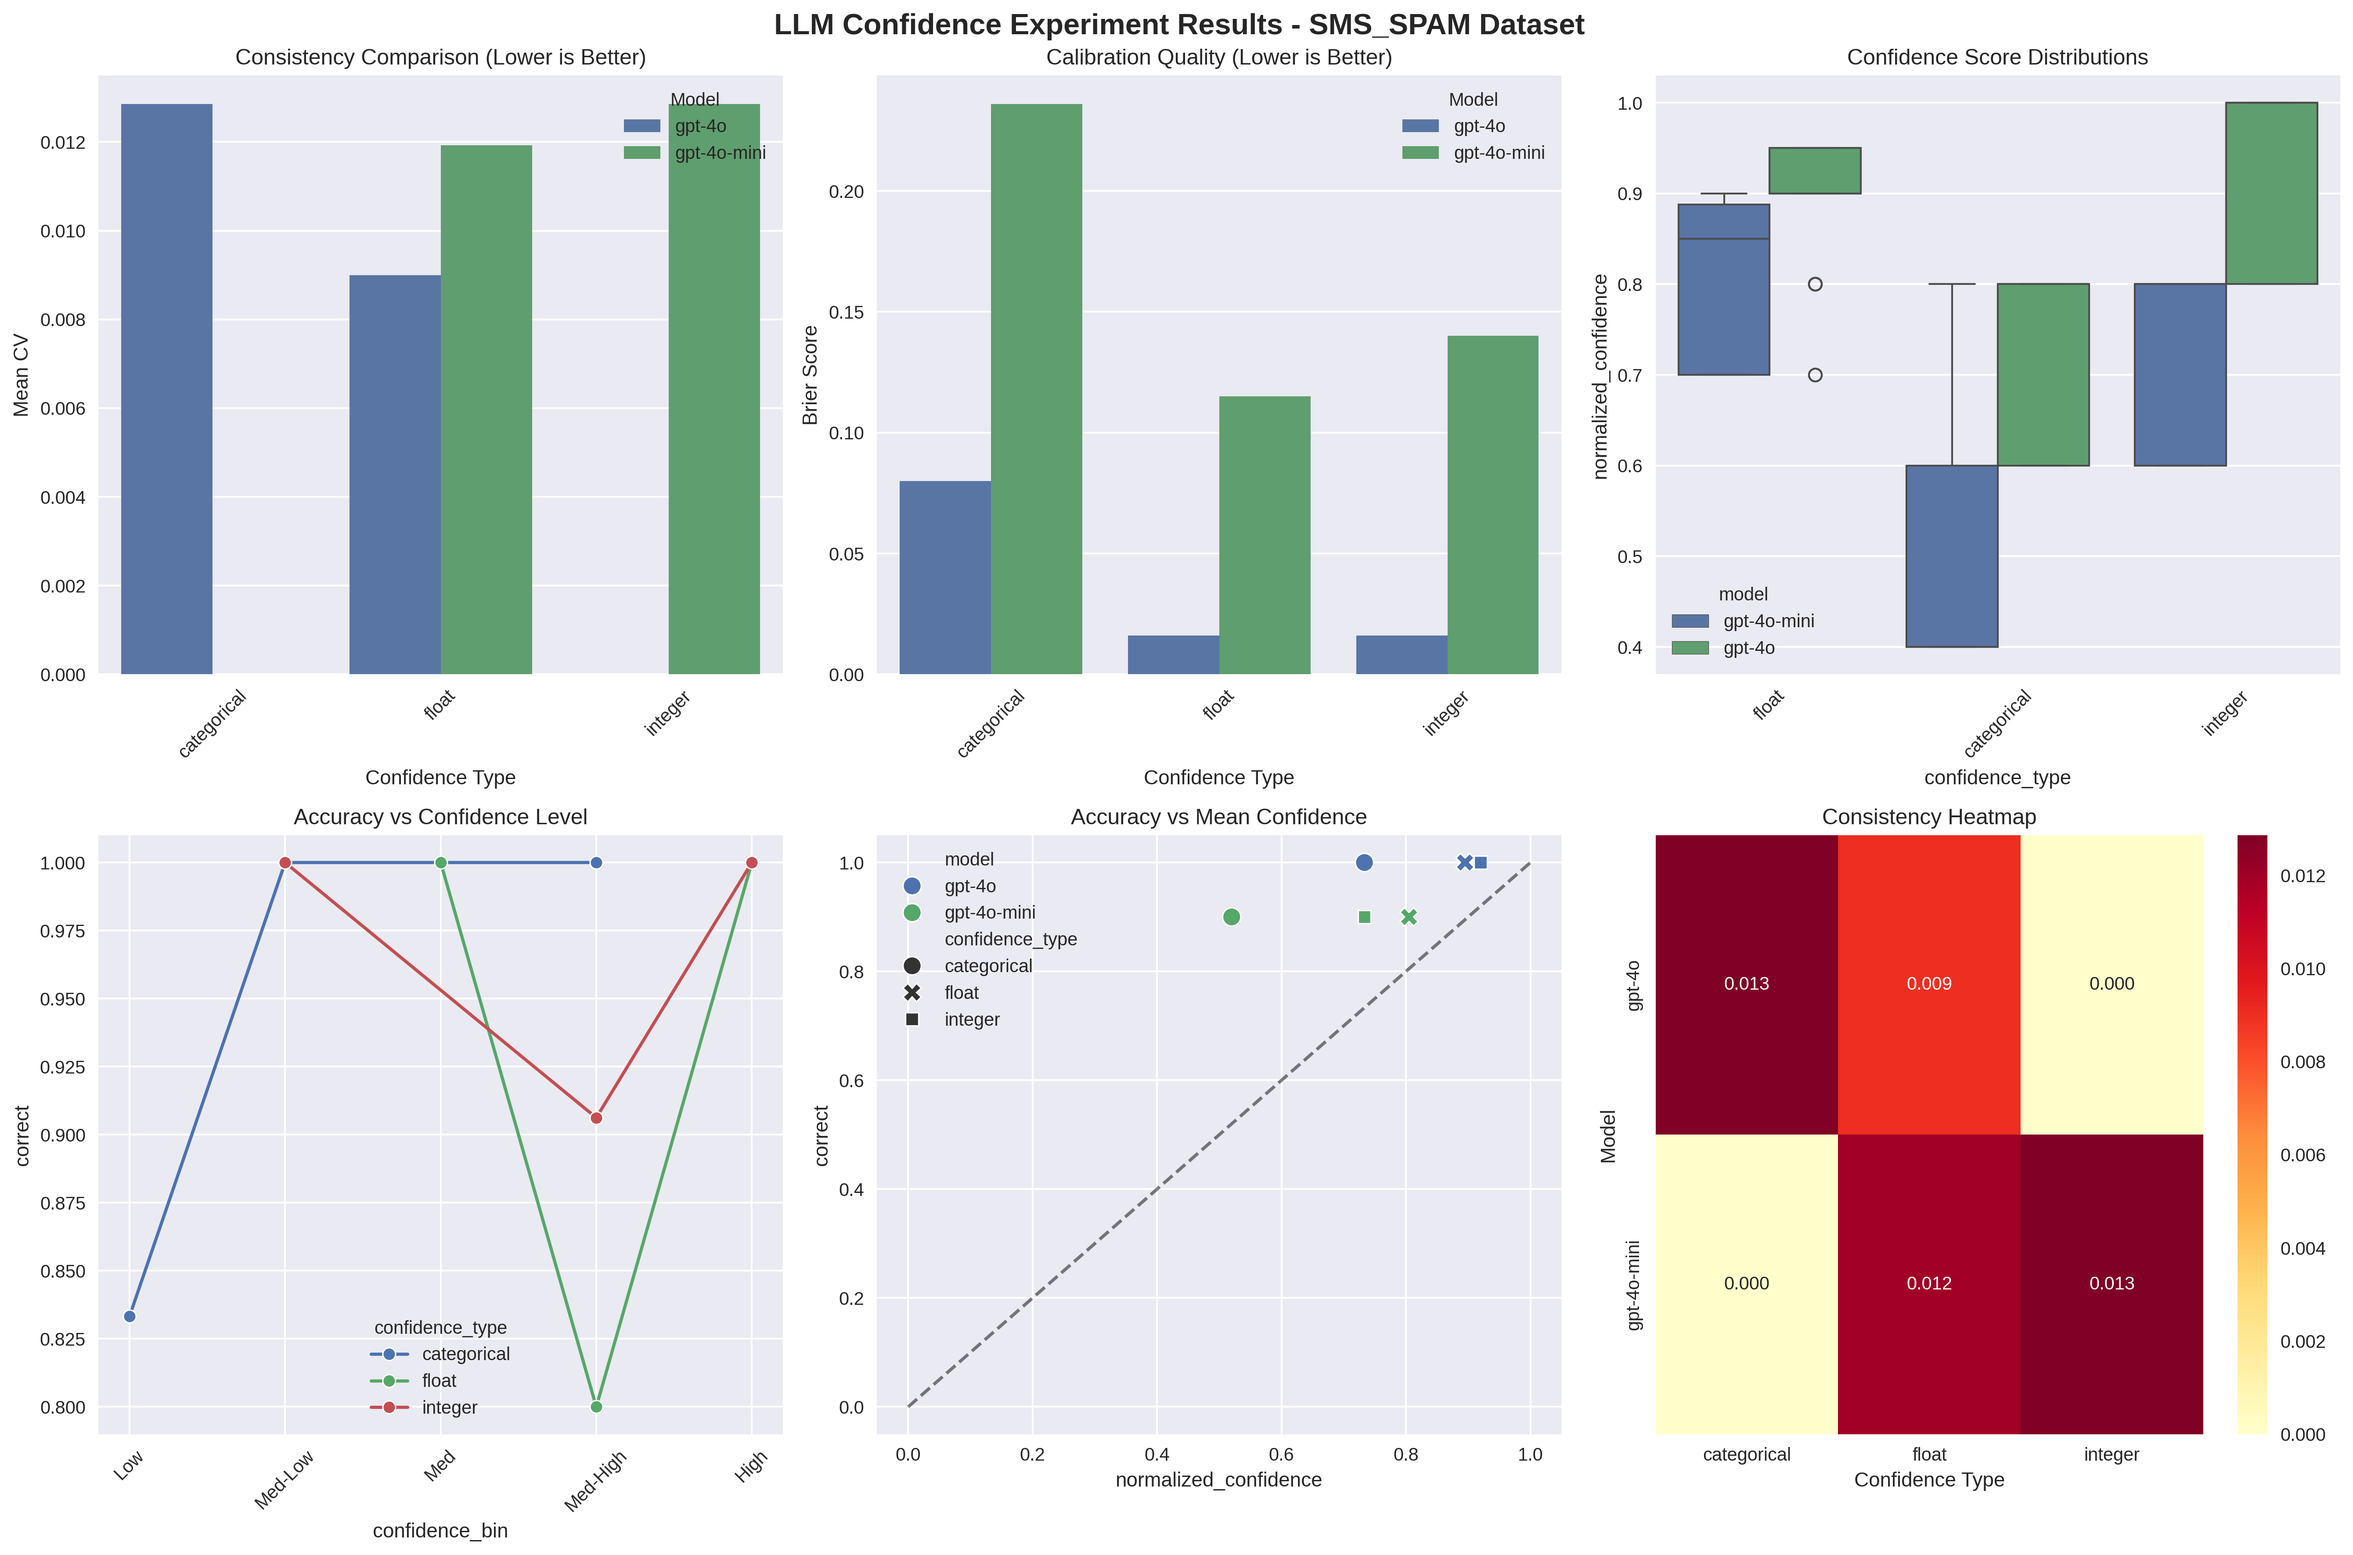
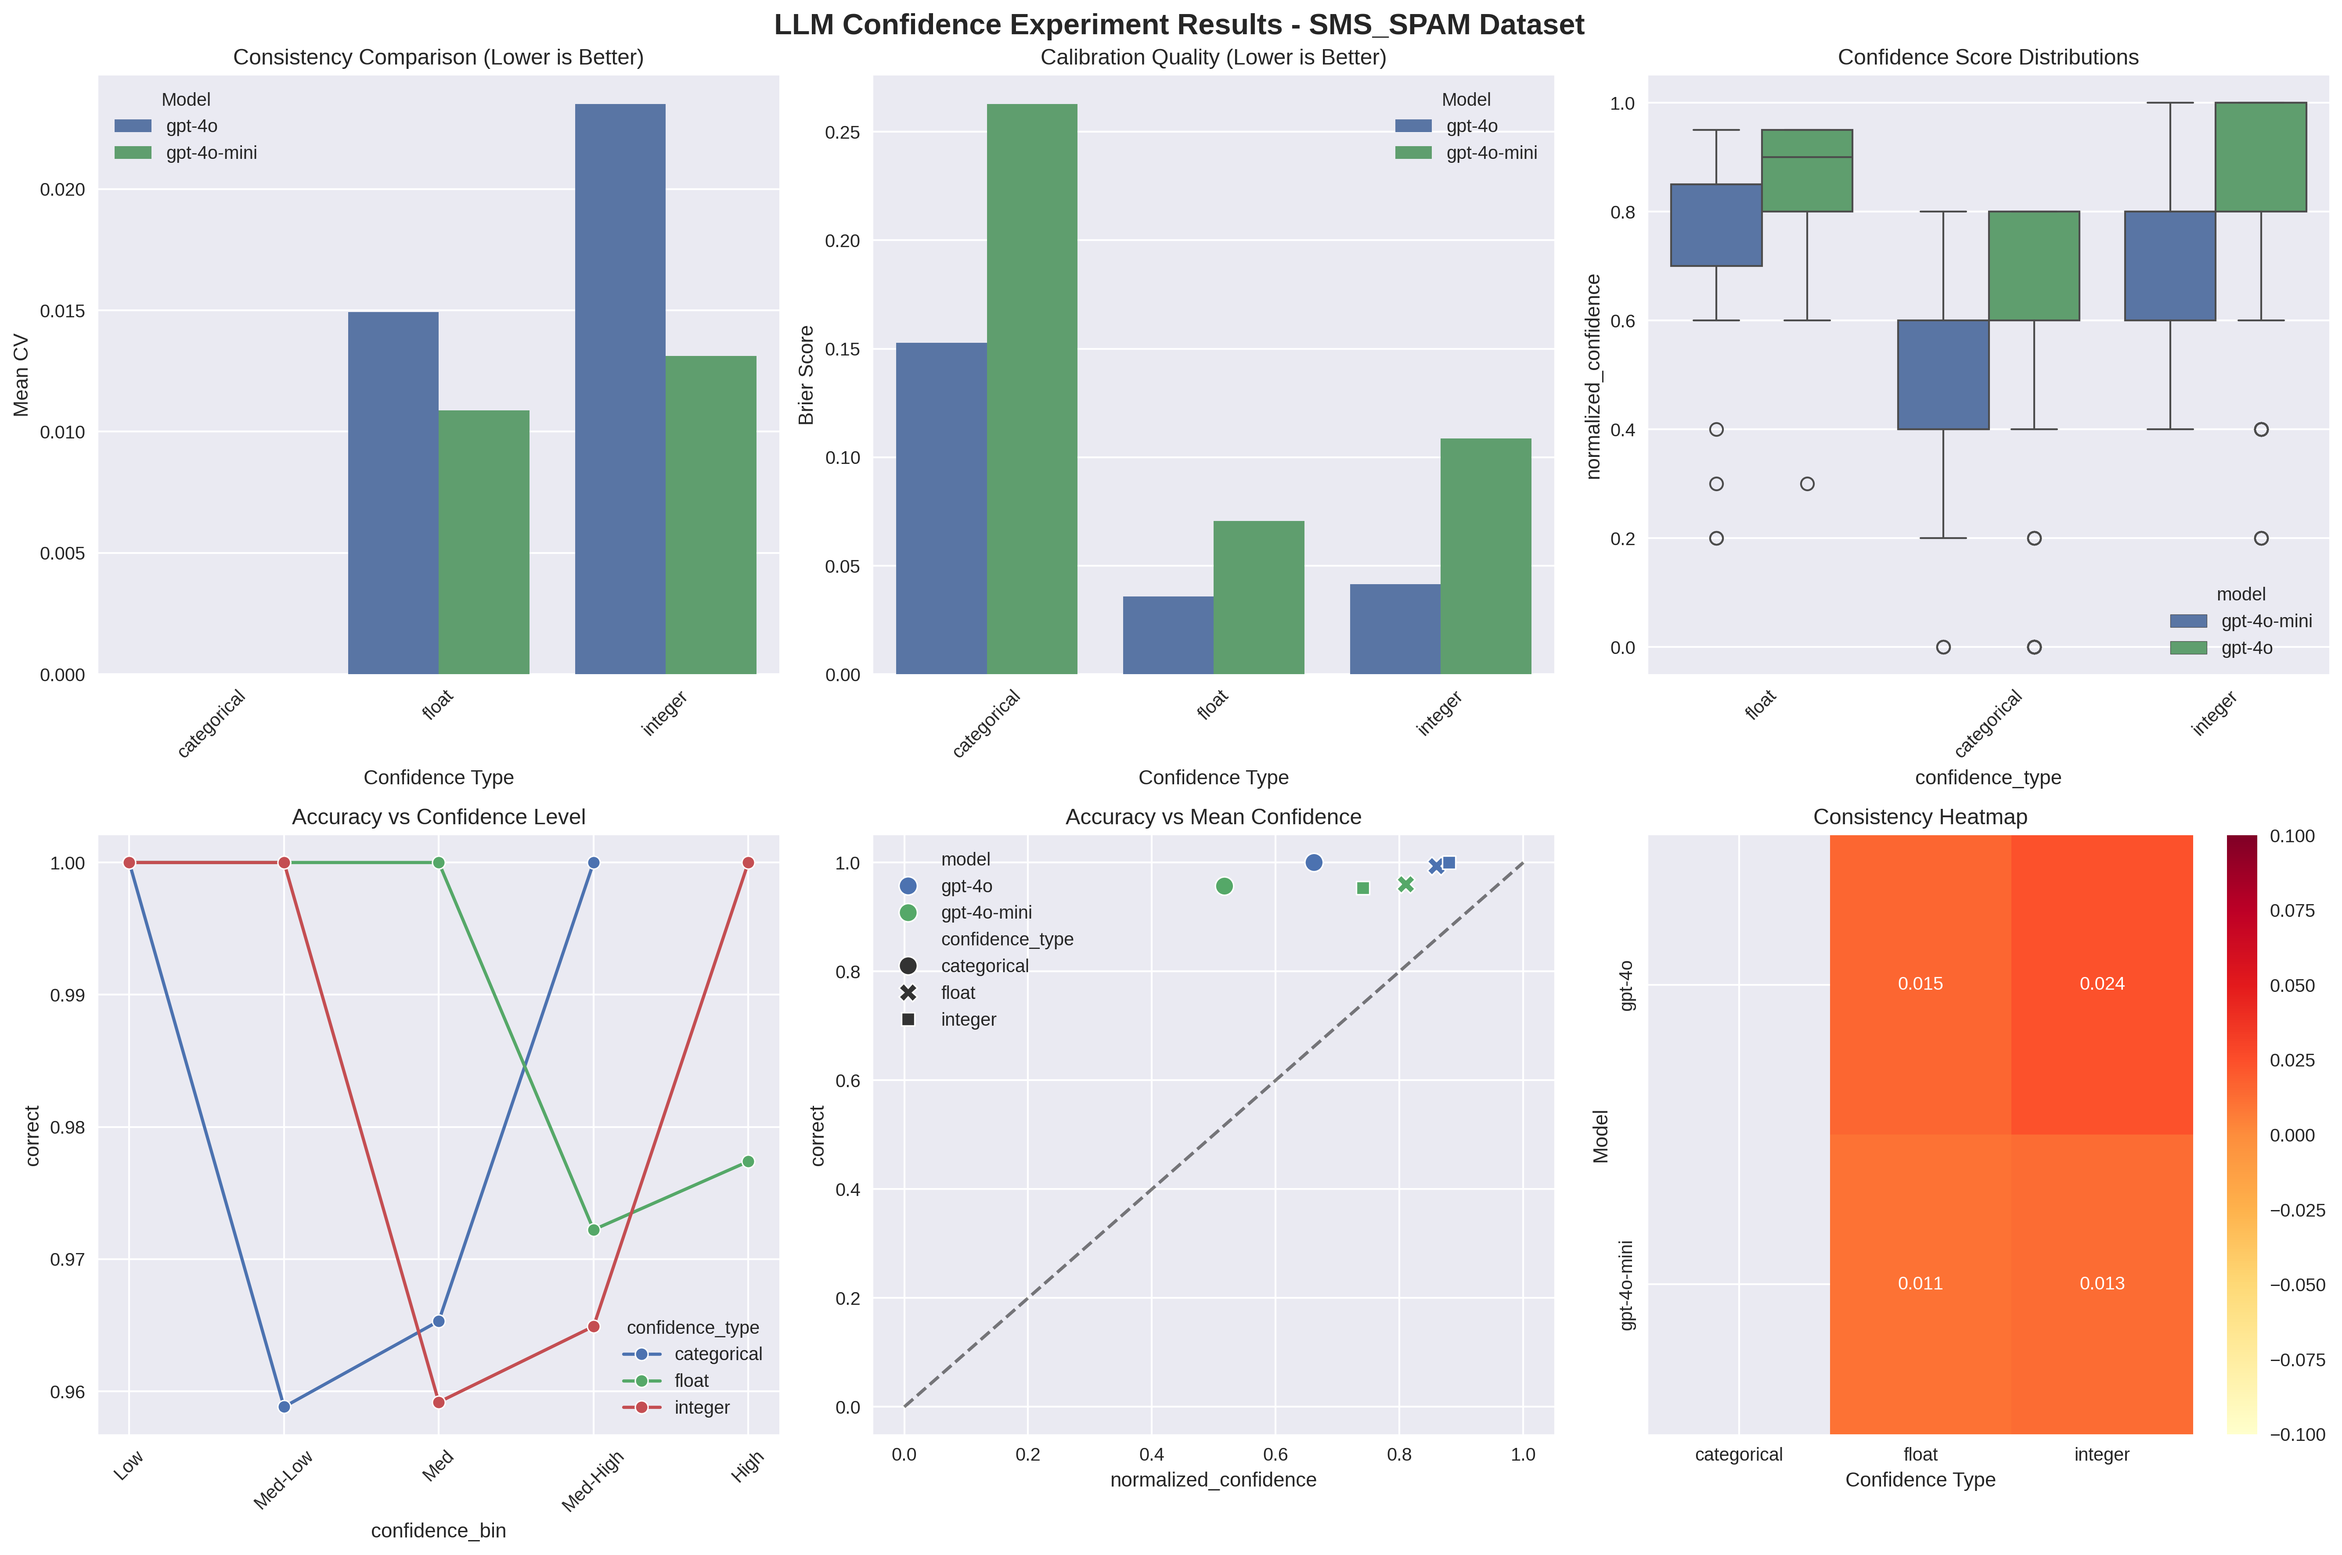
update

diff --git a/src/main.py b/src/main.py
@@ -190,7 +190,7 @@ def run_both_experiments():
     print("=== RUNNING SST2 EXPERIMENT ===")
     sst2_config = ExperimentConfig(
         dataset_choice=DatasetChoice.SST2,
-        sample_size=50,
+        sample_size=100,
         models=["gpt-4o-mini", "gpt-4o"],
         confidence_types=["float", "categorical", "integer"],
     )
@@ -208,7 +208,7 @@ def run_both_experiments():
 
     spam_config = ExperimentConfig(
         dataset_choice=DatasetChoice.SMS_SPAM,
-        sample_size=50,
+        sample_size=100,
         models=["gpt-4o-mini", "gpt-4o"],
         confidence_types=["float", "categorical", "integer"],
     )
@@ -239,11 +239,11 @@ if __name__ == "__main__":
 
     print("\n=== Running Full Experiment ===")
     # Run the full experiment
-    # sst2_results, spam_results, sst2_analyses, spam_analyses = run_both_experiments()
-    results_df, analyses = asyncio.run(main())
+    sst2_results, spam_results, sst2_analyses, spam_analyses = run_both_experiments()
+    # results_df, analyses = asyncio.run(main())
 
-    for results_df, analyses in [(results_df, analyses)]:
-        # for results_df, analyses in [(sst2_results, sst2_analyses), (spam_results, spam_analyses)]:
+    # for results_df, analyses in [(results_df, analyses)]:
+    for results_df, analyses in [(sst2_results, sst2_analyses), (spam_results, spam_analyses)]:
         # Additional statistical testing
         test_confidence_format_significance(results_df)
 
